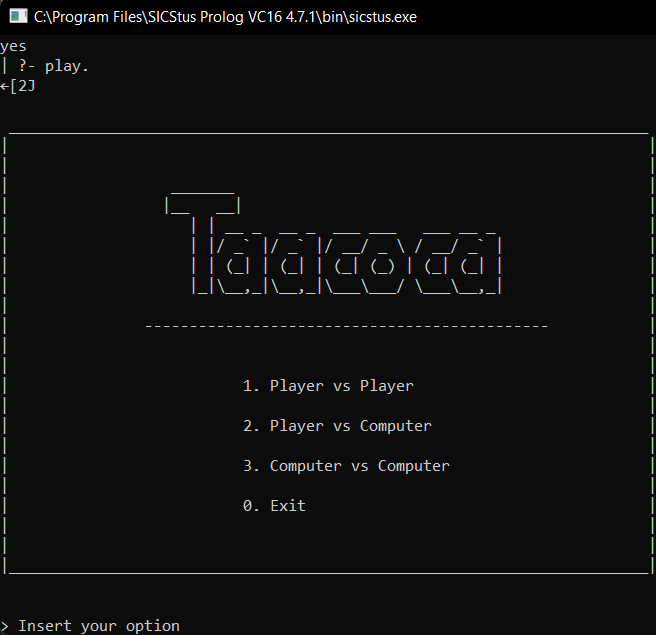
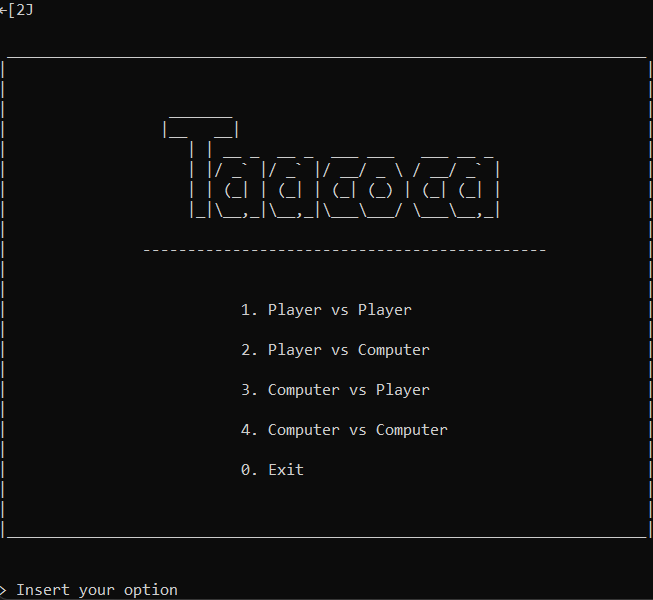
Update all

diff --git a/README.md b/README.md
@@ -49,6 +49,8 @@ Para carregar o jogo basta inserir e executar o seguinte comando como feito abai
 
 ### Lógica do Jogo: Descrever (não basta copiar o código fonte) o projeto e implementação da lógica do jogo em Prolog. O predicado de início de jogo deve ser play/0. Esta secção deve ter informação sobre os seguintes tópicos (até 2400 palavras no total):
 
+Dentro do menu principal escolhe-mos um dos três modos de jogo (1 - Jogador vs Jogador, 2 - Jogador vs Computador, 3 - Computador vs Jogador ou 4 - Computador vs Computador) ou optamos por sair (Opção 0).
+
 * #### **Predicado de início de jogo play (chama a função mainMenu para dar display do Menu principal):**
 ![Jogar](/imgs/play.png)
 
@@ -56,14 +58,12 @@ Para carregar o jogo basta inserir e executar o seguinte comando como feito abai
 ![Menu](/imgs/menuCode.png)
 ![Menu principal](/imgs/menuPrincipal.png)
 
-Dentro do menu principal escolhe-mos um dos três modos de jogo (1 - Jogador vs Jogador, 2 - Jogador vs Computador ou 3 - Computador vs Computador) ou optamos por sair (Opção 0).
-
 ####  **Representação interna do estado do jogo:** indicação de como representam o estado do jogo, incluindo tabuleiro (tipicamente usando lista de listas com diferentes átomos para as peças), jogador atual, e eventualmente peças capturadas e/ou ainda por jogar, ou outras informações que possam ser necessárias (dependendo do jogo). Deve incluir exemplos da representação em Prolog de estados de jogo inicial, intermédio e final, e indicação do significado de cada átomo (ie., como representam as diferentes peças):
+
+Como se pode ver abaixo durante a jogada é disponibilizado o estado do tabuleiro no instante, o jogador atual (neste caso o das pedras pretas), o número de peças que ainda tem em jogo, o número de peças que lhe foram removidas, o número de peças que capturou (removeu do adversário), as peças selecionadas até ao momento e a opção de escolha do movimento (ao fim de selecionar as peças).
 
 * #### **Representação de alguma informação disponibilizada durante as jogadas:**
 ![Informação importante](/imgs/information.png)
-
-Como se pode ver acima durante a jogada é disponibilizado o estado do tabuleiro no instante, o jogador atual (neste caso o das pedras pretas), o número de peças que ainda tem em jogo, o número de peças que lhe foram removidas, o número de peças que capturou (removeu do adversário), as peças selecionadas até ao momento e a opção de escolha do movimento (ao fim de selecionar as peças).
 
 * #### **Representação do tabuleiro inicial como uma lista de listas:**
 ![Tabuleiro inical](/imgs/tabuleiroInicial.png)
@@ -95,14 +95,39 @@ O sistema de menus e suas opções já foi descrito acima assim como a sua inter
 é dado um aviso de erro (input não é válido) e é pedido que escolha uma opção novamente.
 
 * #### **Validação do input (caso de erro):**
-![Input inválido menu](/imgs/inputError.png)
 ![Pedido de novo input](/imgs/newOpt.png)
+![Input inválido menu](/imgs/inputError.png)
 
+Para começar o jogo e o seu loop usa-se o predicado de visualização startGame (é como se fosse o nosso display_Game), que recebe os representantes das peças brancas e pretas, inicía o tabuleiro e chama gameLoop (que vai controlar os turnos dos jogadores e verificar o estado do jogo).
 
+* #### **Display e controlo dos estados do jogo:**
+![Display](/imgs/turnos.png)
 
-#### Execução de Jogadas: Validação e execução de uma jogada, obtendo o novo estado do jogo. O predicado deve chamar-se move(+GameState, +Move, -NewGameState).
+* #### **Exemplo de estado de vitória das pedras brancas por ausência de pedras pretas:**
+![Win](/imgs/estadoVitoria.png)
 
--
+É de notar que após algum tempo depois de um jogo acabar porque um dos lados ganhou volta-se ao menu (Neste jogo não há empates). Além disso, tentou-se tornar a visualização do jogo o mais apelativa e intuitiva possível.
+
+#### **Execução de Jogadas**: Validação e execução de uma jogada, obtendo o novo estado do jogo. O predicado deve chamar-se move(+GameState, +Move, -NewGameState).
+
+Para executar uma jogada, o jogador começa por selecionar as suas pedras (estas são validadas com `validatePiece`, ou seja, se existem no tabuleiro e se lhe pertencem). Depois, ao ser questionado (`askForMove`) seleciona o movimento que irá realizar (em frente, para a esquerda ou direita). No fim de terminado este último processo, a jogada está pronta a executar mas primeiro sofre validação (caso seja inválida é pedido um novo movimento, ou o jogador tem de recomeçar a sua jogada do início). Utiliza-se `checkMove` para validar essa jogada.
+No pedido de cada pedra, é questionado a linha e a coluna no tabuleiro desta como forma de encontrá-la (`askForPiece`). Tanto a linha como a coluna sofrem validação também (em casa de não respeitarem o input pretendido, é pedido que voltem a inserir um valor correto). Essa validação está presente no ficheiro `ìnput.pl`. Além disso, no fundo a jogada é o culminar da seleção de peças mais o movimento (`askForPlay`). 
+
+* #### **Pedras selecionadas:**
+![Pedras selecionadas](/imgs/pedrasSelec.png)
+
+* #### **Movimento selecionado:**
+![Pedras selecionadas](/imgs/pedrasMove.png)
+
+* #### **Pedido das pedras e do movimento:**
+![Pedido das pedras e do movimento](/imgs/pedidoPedrasMov.png)
+
+* #### **Validação das pedras:**
+![Validação das pedras](/imgs/valPedra.png)
+
+* #### **Validação da jogada:**
+![Validação da jogada](/imgs/valJogada.png)
+
 
 #### Lista de Jogadas Válidas: Obtenção de lista com jogadas possíveis. O predicado deve chamar-se valid_moves(+GameState, +Player, -ListOfMoves).
 
